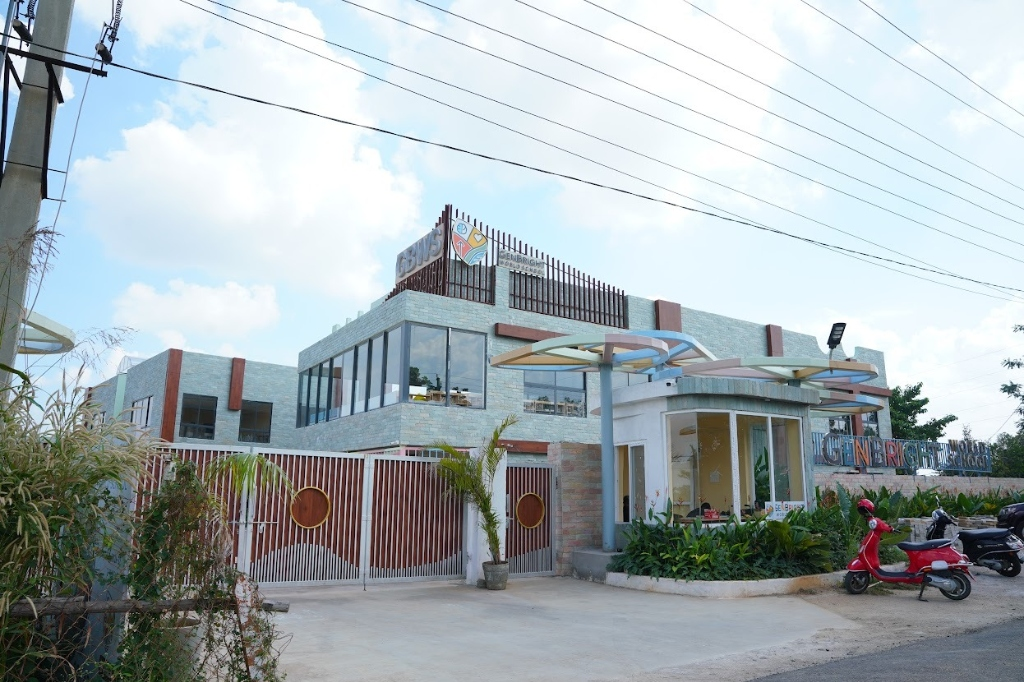
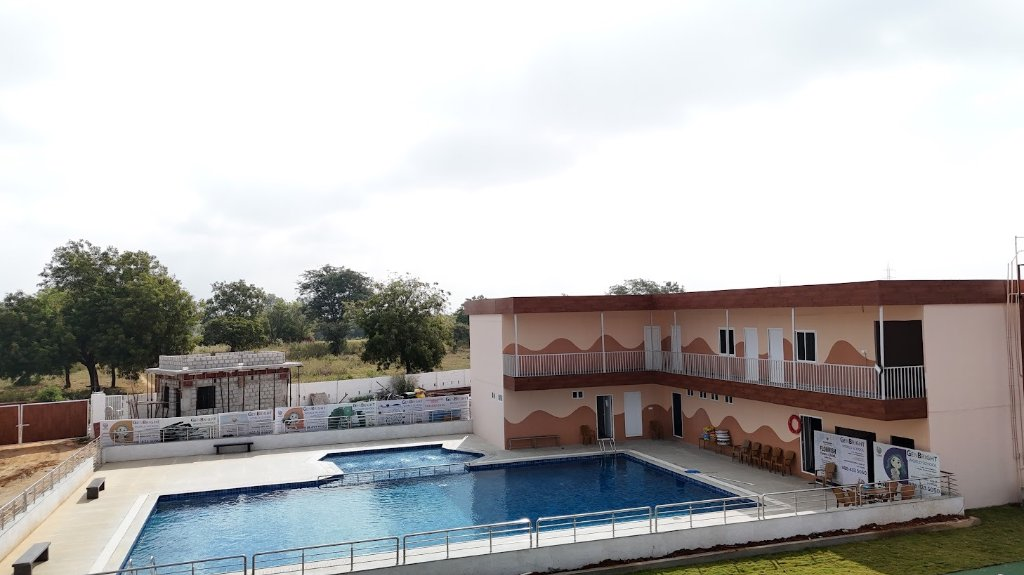
commit

diff --git a/src/App.css b/src/App.css
@@ -5901,13 +5901,13 @@ img {
   align-items: center;
   background-image: linear-gradient(98deg,
       rgba(10, 28, 18, 0.95) 0%,
-      rgba(13, 36, 22, 0.90) 38%,
-      rgba(16, 44, 28, 0.62) 64%,
-      rgba(12, 34, 20, 0.22) 88%,
-      rgba(12, 34, 20, 0.08) 100%),
+      rgba(13, 36, 22, 0.88) 38%,
+      rgba(16, 44, 28, 0.58) 64%,
+      rgba(12, 34, 20, 0.18) 88%,
+      rgba(12, 34, 20, 0.05) 100%),
     url('/images/section-10-growing-bg.jpg');
   background-size: cover;
-  background-position: center 36%;
+  background-position: center 65%;
   background-repeat: no-repeat;
   padding: clamp(3.5rem, 5vw, 5rem) clamp(1.5rem, 4vw, 3.5rem);
   box-sizing: border-box;
@@ -6031,11 +6031,11 @@ img {
   .gb-scene10-banner__card {
     padding: 3rem 1.75rem;
     min-height: 380px;
-    background-position: center 30%;
+    background-position: center 65%;
     background-image: linear-gradient(180deg,
-        rgba(10, 28, 18, 0.96) 0%,
-        rgba(13, 36, 22, 0.90) 65%,
-        rgba(16, 44, 28, 0.65) 100%),
+        rgba(10, 28, 18, 0.94) 0%,
+        rgba(13, 36, 22, 0.82) 65%,
+        rgba(16, 44, 28, 0.55) 100%),
       url('/images/section-10-growing-bg.jpg');
   }
 
@@ -6516,7 +6516,7 @@ img {
   width: 100%;
   height: 100%;
   object-fit: cover;
-  object-position: center 36%;
+  object-position: center 48%;
   display: block;
 }
 
@@ -6524,10 +6524,10 @@ img {
   position: absolute;
   inset: 0;
   background: linear-gradient(180deg,
-    rgba(12, 38, 22, 0.74) 0%,
-    rgba(14, 44, 26, 0.58) 42%,
-    rgba(12, 38, 22, 0.52) 75%,
-    rgba(12, 38, 22, 0.72) 100%);
+    rgba(10, 30, 18, 0.74) 0%,
+    rgba(12, 38, 22, 0.52) 42%,
+    rgba(12, 38, 22, 0.50) 75%,
+    rgba(10, 30, 18, 0.74) 100%);
 }
 
 .gb-scene14-banner__content {
@@ -6629,6 +6629,11 @@ img {
   gap: 1.25rem;
   flex-wrap: wrap;
   margin-top: 0.5rem;
+}
+
+.gb-scene14-banner__ctas .gb-btn--primary-forest {
+  border-color: rgba(255, 255, 255, 0.42) !important;
+  box-shadow: 0 6px 20px rgba(0, 0, 0, 0.32) !important;
 }
 
 @media (max-width: 600px) {

diff --git a/src/components/StoryScenesList.tsx b/src/components/StoryScenesList.tsx
@@ -1270,11 +1270,11 @@ export const StoryScenesList = React.memo(function StoryScenesList({
                   /* SCENE 14: LIVING ARCHIVES (MATCHING USER REFERENCE BANNER WITH ARCHIVE ARTIFACT BACKGROUND) */
                   <div className="gb-scene14-banner">
                     <div className="gb-scene14-banner__card">
-                      {/* Background Visual: Authentic student athletic moments & living archives */}
+                      {/* Background Visual: Authentic campus outdoor nature pavilion & living archives */}
                       <div className="gb-scene14-banner__bg" aria-hidden="true">
                         <img
                           src="/images/scene-14-archives-campus-turf-hd.jpg"
-                          alt="GenBright students in sports uniform on the lush green athletic field with school building in background"
+                          alt="GenBright outdoor nature learning pavilion surrounded by lush tropical gardens and botanical pathway"
                           className="gb-scene14-banner__bg-img"
                           loading="lazy"
                           decoding="async"
@@ -1284,6 +1284,7 @@ export const StoryScenesList = React.memo(function StoryScenesList({
 
                       {/* Centered Content Stack matching user reference */}
                       <div className="gb-scene14-banner__content">
+                        <span className="gb-scene14-banner__eyebrow">14 · LIVING ARCHIVES</span>
                         <h2 className="gb-scene14-banner__title">
                           Some moments deserve<br />
                           <span>to be remembered.</span>

diff --git a/src/data/storyScenes.ts b/src/data/storyScenes.ts
@@ -237,7 +237,7 @@ export const STORY_SCENES: StorySceneData[] = [
     copy: 'Every celebration, field visit, project and milestone adds a chapter to our story. Discover school news, upcoming events, student and educator achievements, and Bright Times magazine.',
     hasImage: true,
     imageUrl: '/images/section-10-growing-bg.jpg',
-    imageAlt: 'There is always something growing at GenBright',
+    imageAlt: 'GenBright campus swimming pool and activities pavilion under sunny skies',
     theme: 'alabaster',
     primaryCta: { label: 'News & Events', actionType: 'scroll', target: 'scene-14' },
     secondaryCta: { label: 'Read Bright Times', actionType: 'modal', target: 'bright-times' },
@@ -299,7 +299,7 @@ export const STORY_SCENES: StorySceneData[] = [
     copy: 'Our archives preserve school milestones, publications, achievements, event photographs, films and memories. This is a living record of the community we are building.',
     hasImage: true,
     imageUrl: '/images/scene-14-archives-campus-turf-hd.jpg',
-    imageAlt: 'GenBright students on the lush green athletic field with school building in background',
+    imageAlt: 'GenBright outdoor nature learning pavilion surrounded by lush tropical gardens and botanical pathway',
     theme: 'alabaster',
     primaryCta: { label: 'Explore Archives', actionType: 'scroll', target: 'scene-15' },
     secondaryCta: { label: 'View Milestones', actionType: 'scroll', target: 'scene-15' },
